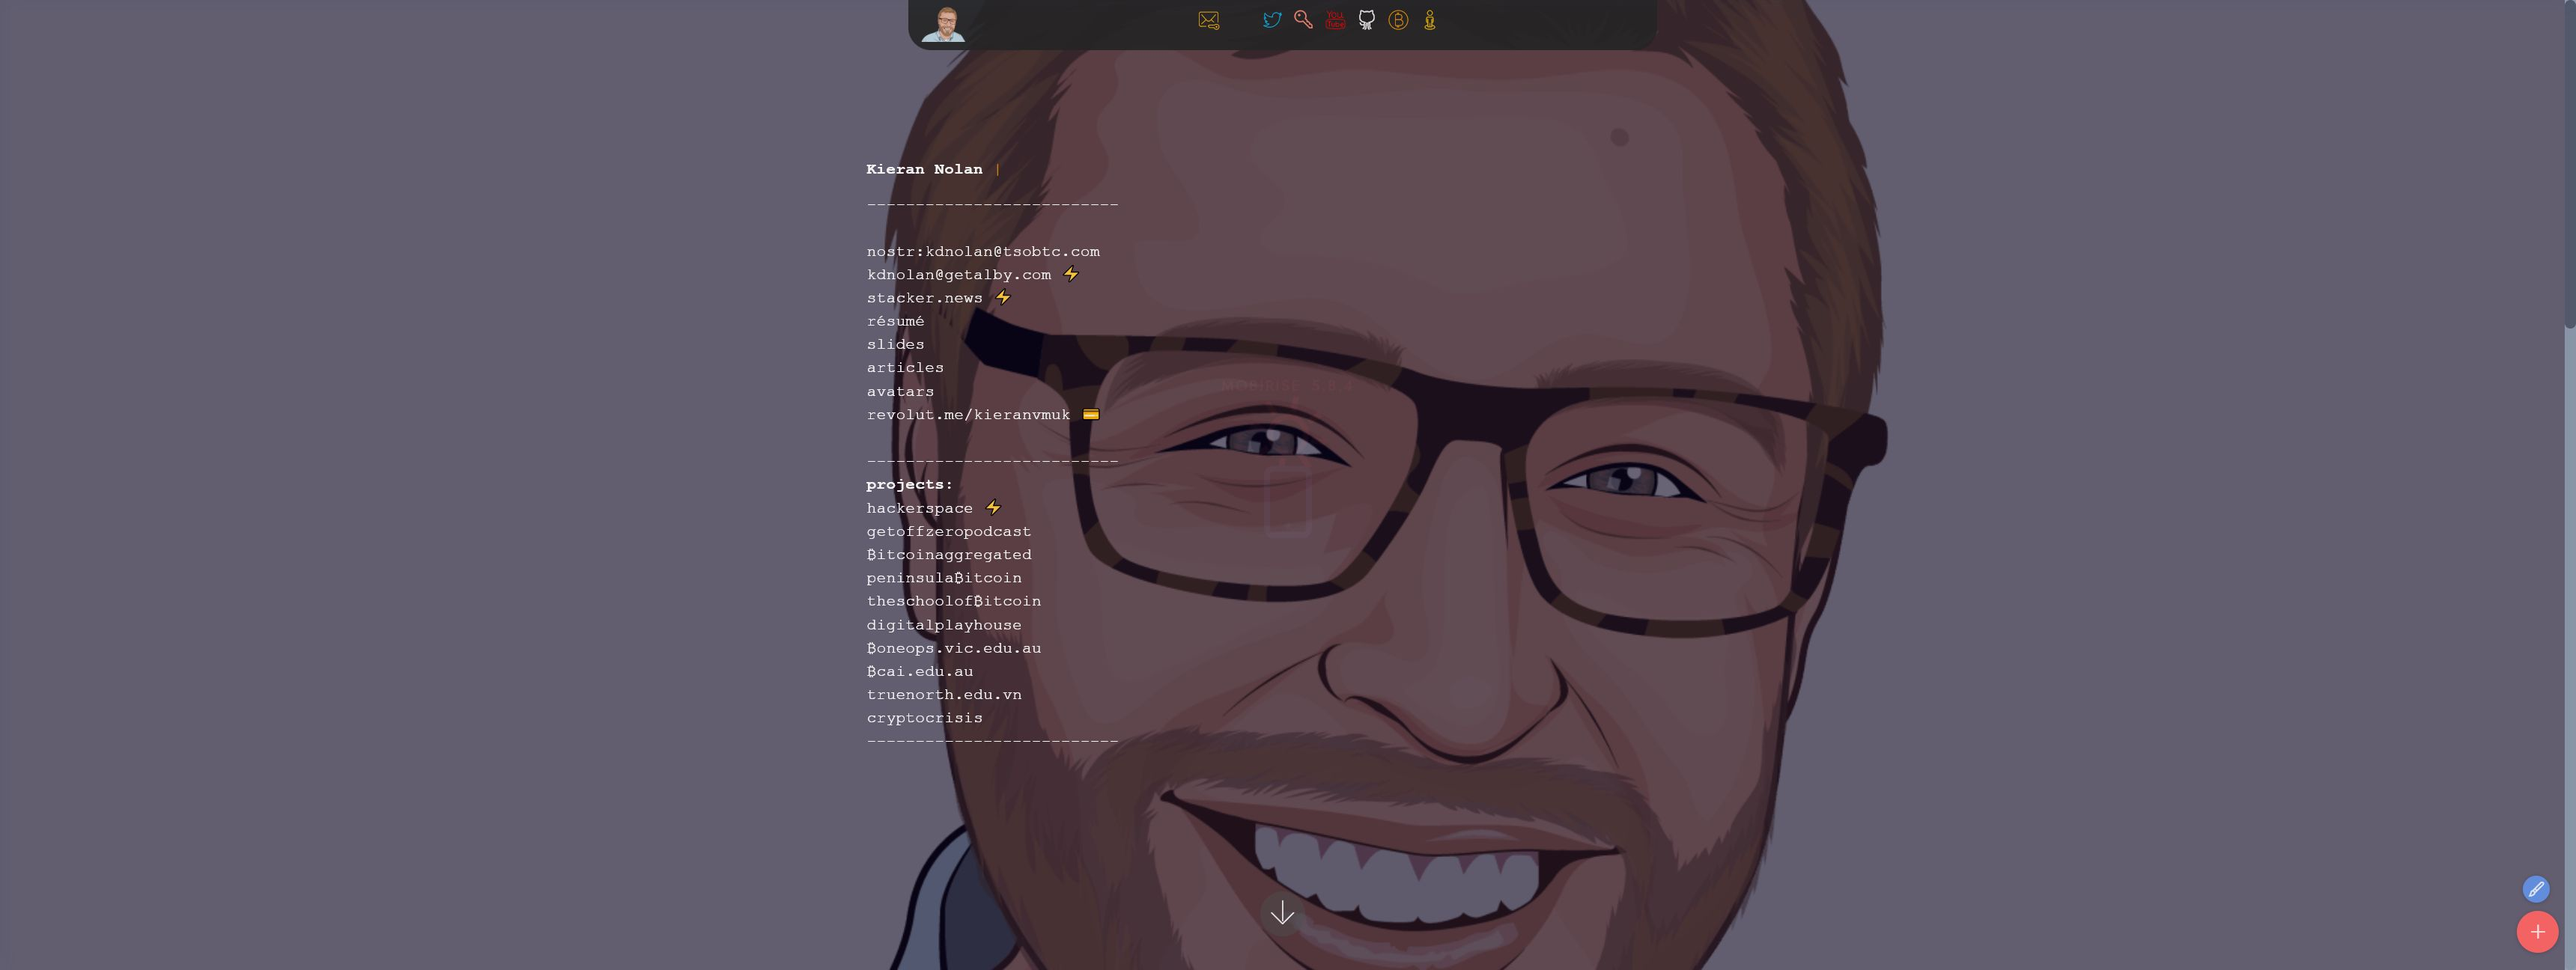
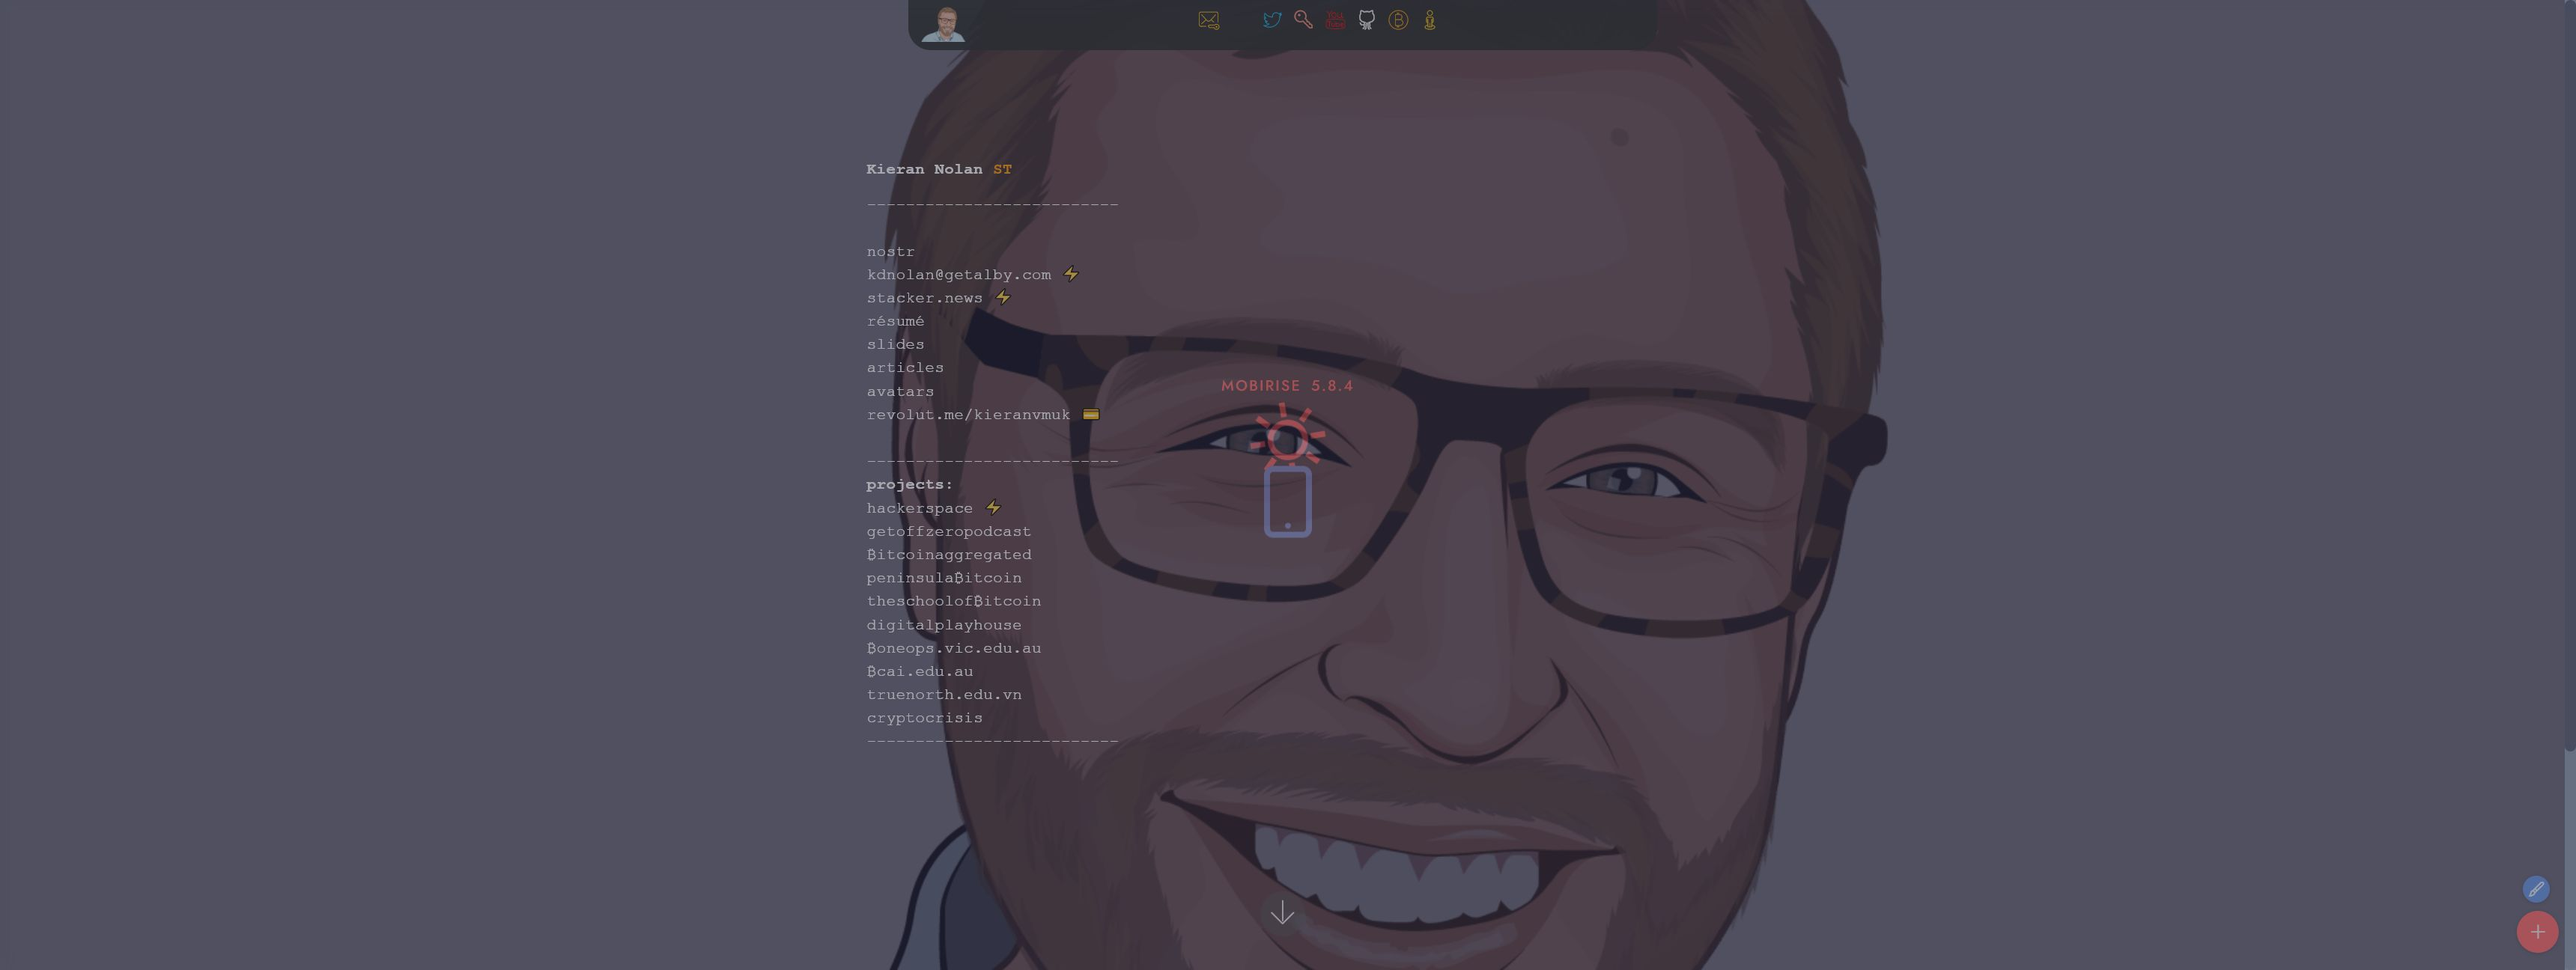
minecraft
minecraft

diff --git a/index.html b/index.html
@@ -109,7 +109,7 @@
                 </div>
                 <p class="mbr-section-text mbr-fonts-style display-5">--------------------------
 <br><a href="https://revolut.me/kieranvmuk" class="text-primary" target="_blank"><br></a><a href="https://nosta.me/c13fd3810b2a1872688d61e0a08d672dcfd4e1f01aadd16aa324b7f0b46236ea" class="text-primary" target="_blank">nostr</a><br><a href="https://getalby.com/p/kdnolan" class="text-primary" target="_blank">kdnolan@getalby.com&nbsp;⚡<br></a><a href="https://stacker.news/KieranDNolan/posts" class="text-primary" target="_blank"></a><a href="https://stacker.news/kdnolan/posts" class="text-primary" target="_blank">stacker.news ⚡</a><br><a href="https://docs.google.com/document/d/e/2PACX-1vSJ3lUSlqyzEbDo2WYMuaCoPWlIEa_Dltg2NgMmwRnxJEwSH9Kfty-wHGQbAZDOrDtfyUymXv8UziGx/pub" class="text-primary" target="_blank">résumé</a><br><a href="https://docs.google.com/presentation/d/1yaAbm6C0uJMXCiRQ0T747UlyXtKg3DUhZP5X2WHOKWc/edit?usp=drive_link" class="text-primary" target="_blank">slides</a><br><strong><a href="https://github.com/kdnolan/kdnolan.github.io/tree/master/articles" class="text-primary" target="_blank">articles</a></strong><br><a href="https://github.com/kdnolan/kdnolan.github.io/tree/master/avatars" class="text-primary" target="_blank">avatars</a><br><a href="https://revolut.me/kieranvmuk" class="text-primary" target="_blank">revolut.me/kieranvmuk 💳
-</a><br><br>--------------------------<br><strong>projects:<br></strong><a href="https://stacker.news/boneohackerspace/posts" class="text-primary" target="_blank">hackerspace&nbsp;</a>⚡<br><a href="https://getoffzeropod.com/" class="text-primary" target="_blank">getoffzeropodcast</a><br><a href="https://bitcoinaggregated.com/" class="text-primary" target="_blank">₿itcoinaggregated</a><br><a href="http://peninsulabitcoin.com" class="text-primary" target="_blank">peninsula₿itcoin</a><a href="https://getoffzeropod.com/" class="text-primary" target="_blank"><br></a><a href="https://theschoolofbitcoin.com/" class="text-primary" target="_blank">theschoolof₿itcoin</a><br><a href="https://www.digitalplayhouse.com.au/digital-playhouse-foundation" class="text-primary" target="_blank">digitalplayhouse</a>&nbsp;<br><a href="https://boneops.vic.edu.au/" class="text-primary" target="_blank">₿oneops.vic.edu.au</a><br><a href="https://www.bcai.edu.au/" class="text-primary" target="_blank">₿cai.edu.au</a><br><a href="http://truenorth.edu.vn/our-school" class="text-primary" target="_blank">truenorth.edu.vn<br></a><a href="https://store.steampowered.com/app/1022320/Crypto_Crisis_Education_Edition/" class="text-primary" target="_blank">cryptocrisis</a><br>--------------------------
+</a><br><br>--------------------------<br><strong>projects:<br></strong><a href="https://stacker.news/boneohackerspace/posts" class="text-primary" target="_blank">hackerspace&nbsp;</a>⚡<br><a href="https://getoffzeropod.com/" class="text-primary" target="_blank">getoffzeropodcast</a><br><a href="https://bitcoinaggregated.com/" class="text-primary" target="_blank">₿itcoinaggregated</a><br><a href="http://peninsulabitcoin.com" class="text-primary" target="_blank">peninsula₿itcoin</a><a href="https://getoffzeropod.com/" class="text-primary" target="_blank"><br></a><a href="https://theschoolofbitcoin.com/" class="text-primary" target="_blank">theschoolof₿itcoin</a><br><a href="https://www.digitalplayhouse.com.au/digital-playhouse-foundation" class="text-primary" target="_blank">digitalplayhouse</a>&nbsp;<br><a href="https://boneops.vic.edu.au/" class="text-primary" target="_blank">₿oneops.vic.edu.au</a><br><a href="https://www.bcai.edu.au/" class="text-primary" target="_blank">₿cai.edu.au</a><br><a href="http://truenorth.edu.vn/our-school" class="text-primary" target="_blank">truenorth.edu.vn<br></a><a href="https://store.steampowered.com/app/1022320/Crypto_Crisis_Education_Edition/" class="text-primary" target="_blank">cryptocrisis</a><br><a href="https://docs.google.com/presentation/d/1m_ZfsSB7e3xO3OIZZWFOrrUA5bxvbAfky23lT8krMfI/edit?usp=sharing" class="text-primary" target="_blank">minecraft</a><a href="https://store.steampowered.com/app/1022320/Crypto_Crisis_Education_Edition/" class="text-primary" target="_blank"><br></a><br>--------------------------
 <br><br><br><strong><a href="http://rocketshoes.io" class="text-primary" target="_blank"><br></a></strong><br><strong><a href="http://rocketshoes.io" class="text-primary" target="_blank"><br></a></strong><a href="http://kdnolan.hns.to" class="text-primary" target="_blank" style=""><br></a><br></p>
                 
             </div>

diff --git a/webdev.html b/webdev.html
@@ -88,9 +88,9 @@
 
 <section class="slider1 cid-tveSm9BzEp mbr-fullscreen" id="slider1-1r">
     
-    <div class="carousel slide carousel-fade" id="tQnVJHYaWu" data-ride="carousel" data-interval="5000">
+    <div class="carousel slide carousel-fade" id="tSQgLHm077" data-ride="carousel" data-interval="5000">
        <ol class="carousel-indicators">
-            <li data-slide-to="0" class="active" data-target="#tQnVJHYaWu"></li><li data-slide-to="1" class="" data-target="#tQnVJHYaWu"></li><li data-slide-to="2" class="" data-target="#tQnVJHYaWu"></li><li data-slide-to="3" class="" data-target="#tQnVJHYaWu"></li><li data-slide-to="4" class="" data-target="#tQnVJHYaWu"></li>
+            <li data-slide-to="0" class="active" data-target="#tSQgLHm077"></li><li data-slide-to="1" class="" data-target="#tSQgLHm077"></li><li data-slide-to="2" class="" data-target="#tSQgLHm077"></li><li data-slide-to="3" class="" data-target="#tSQgLHm077"></li><li data-slide-to="4" class="" data-target="#tSQgLHm077"></li>
             
             
         </ol>
@@ -168,11 +168,11 @@
             
             
         </div>
- <a class="carousel-control carousel-control-prev" role="button" data-slide="prev" href="#tQnVJHYaWu">
+ <a class="carousel-control carousel-control-prev" role="button" data-slide="prev" href="#tSQgLHm077">
             <span class="mobi-mbri mobi-mbri-left" aria-hidden="true"></span>
             <span class="sr-only">Previous</span>
         </a>
-        <a class="carousel-control carousel-control-next" role="button" data-slide="next" href="#tQnVJHYaWu">
+        <a class="carousel-control carousel-control-next" role="button" data-slide="next" href="#tSQgLHm077">
             <span class="mobi-mbri mobi-mbri-right" aria-hidden="true"></span>
             <span class="sr-only">Next</span>
         </a>
